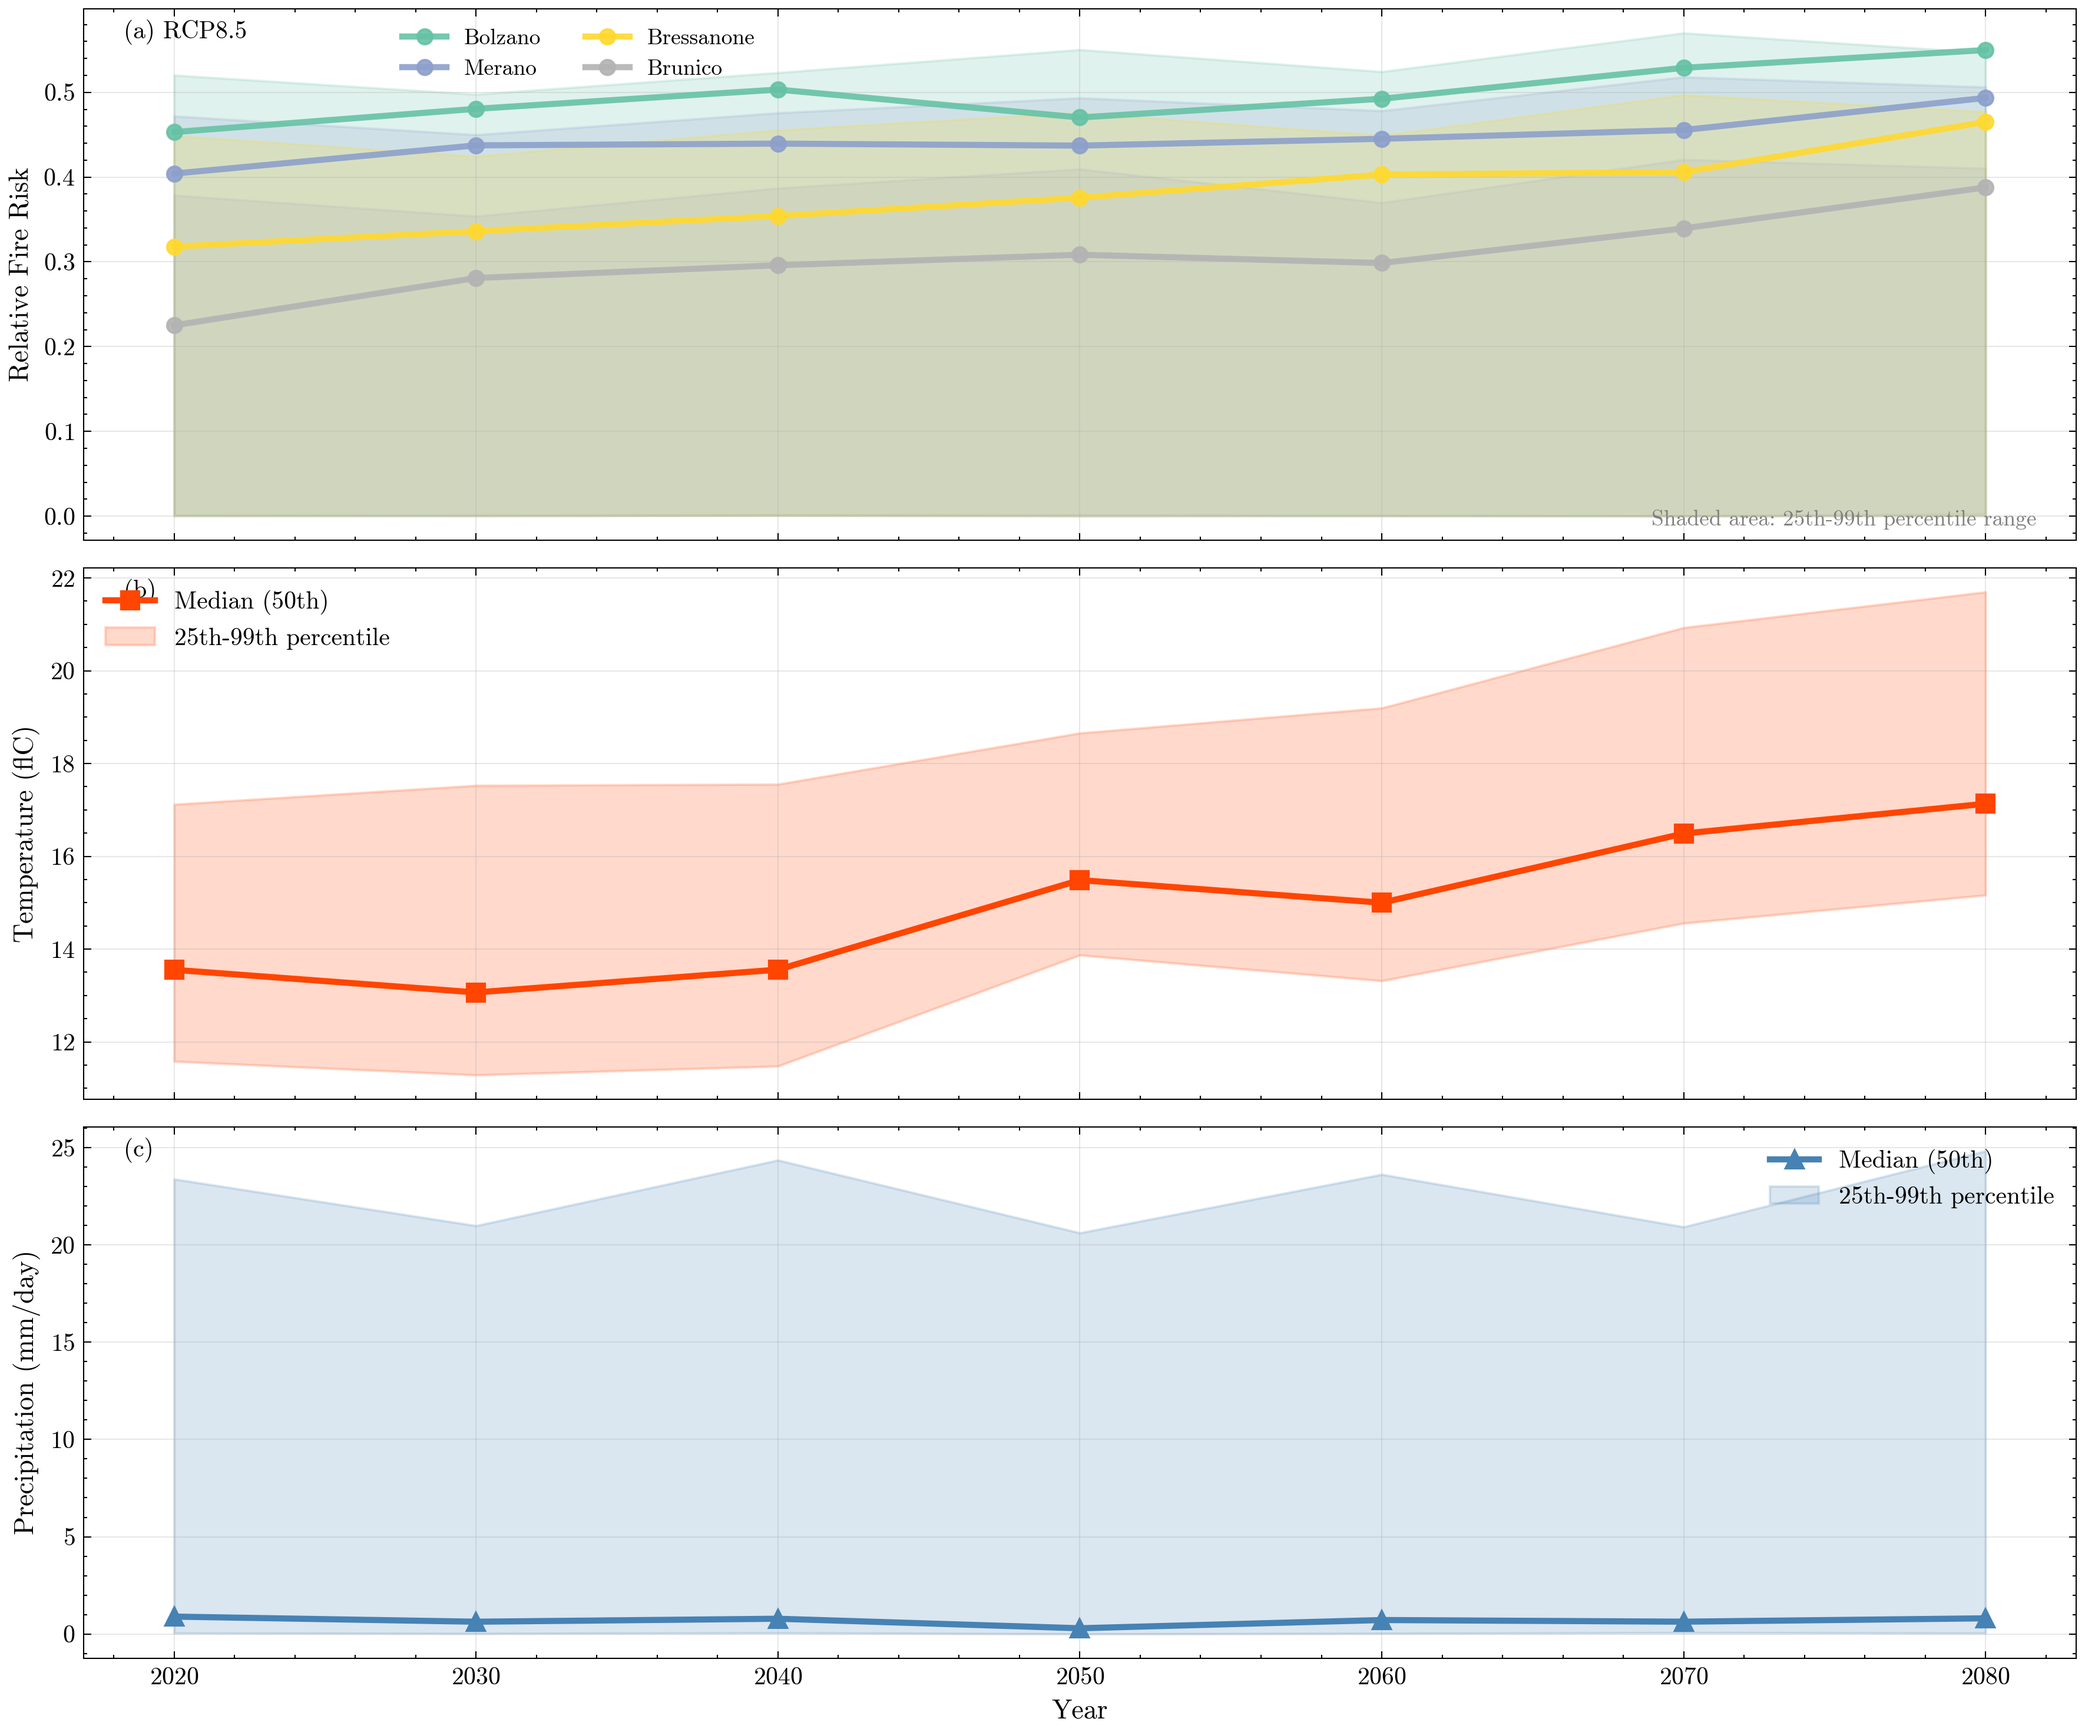
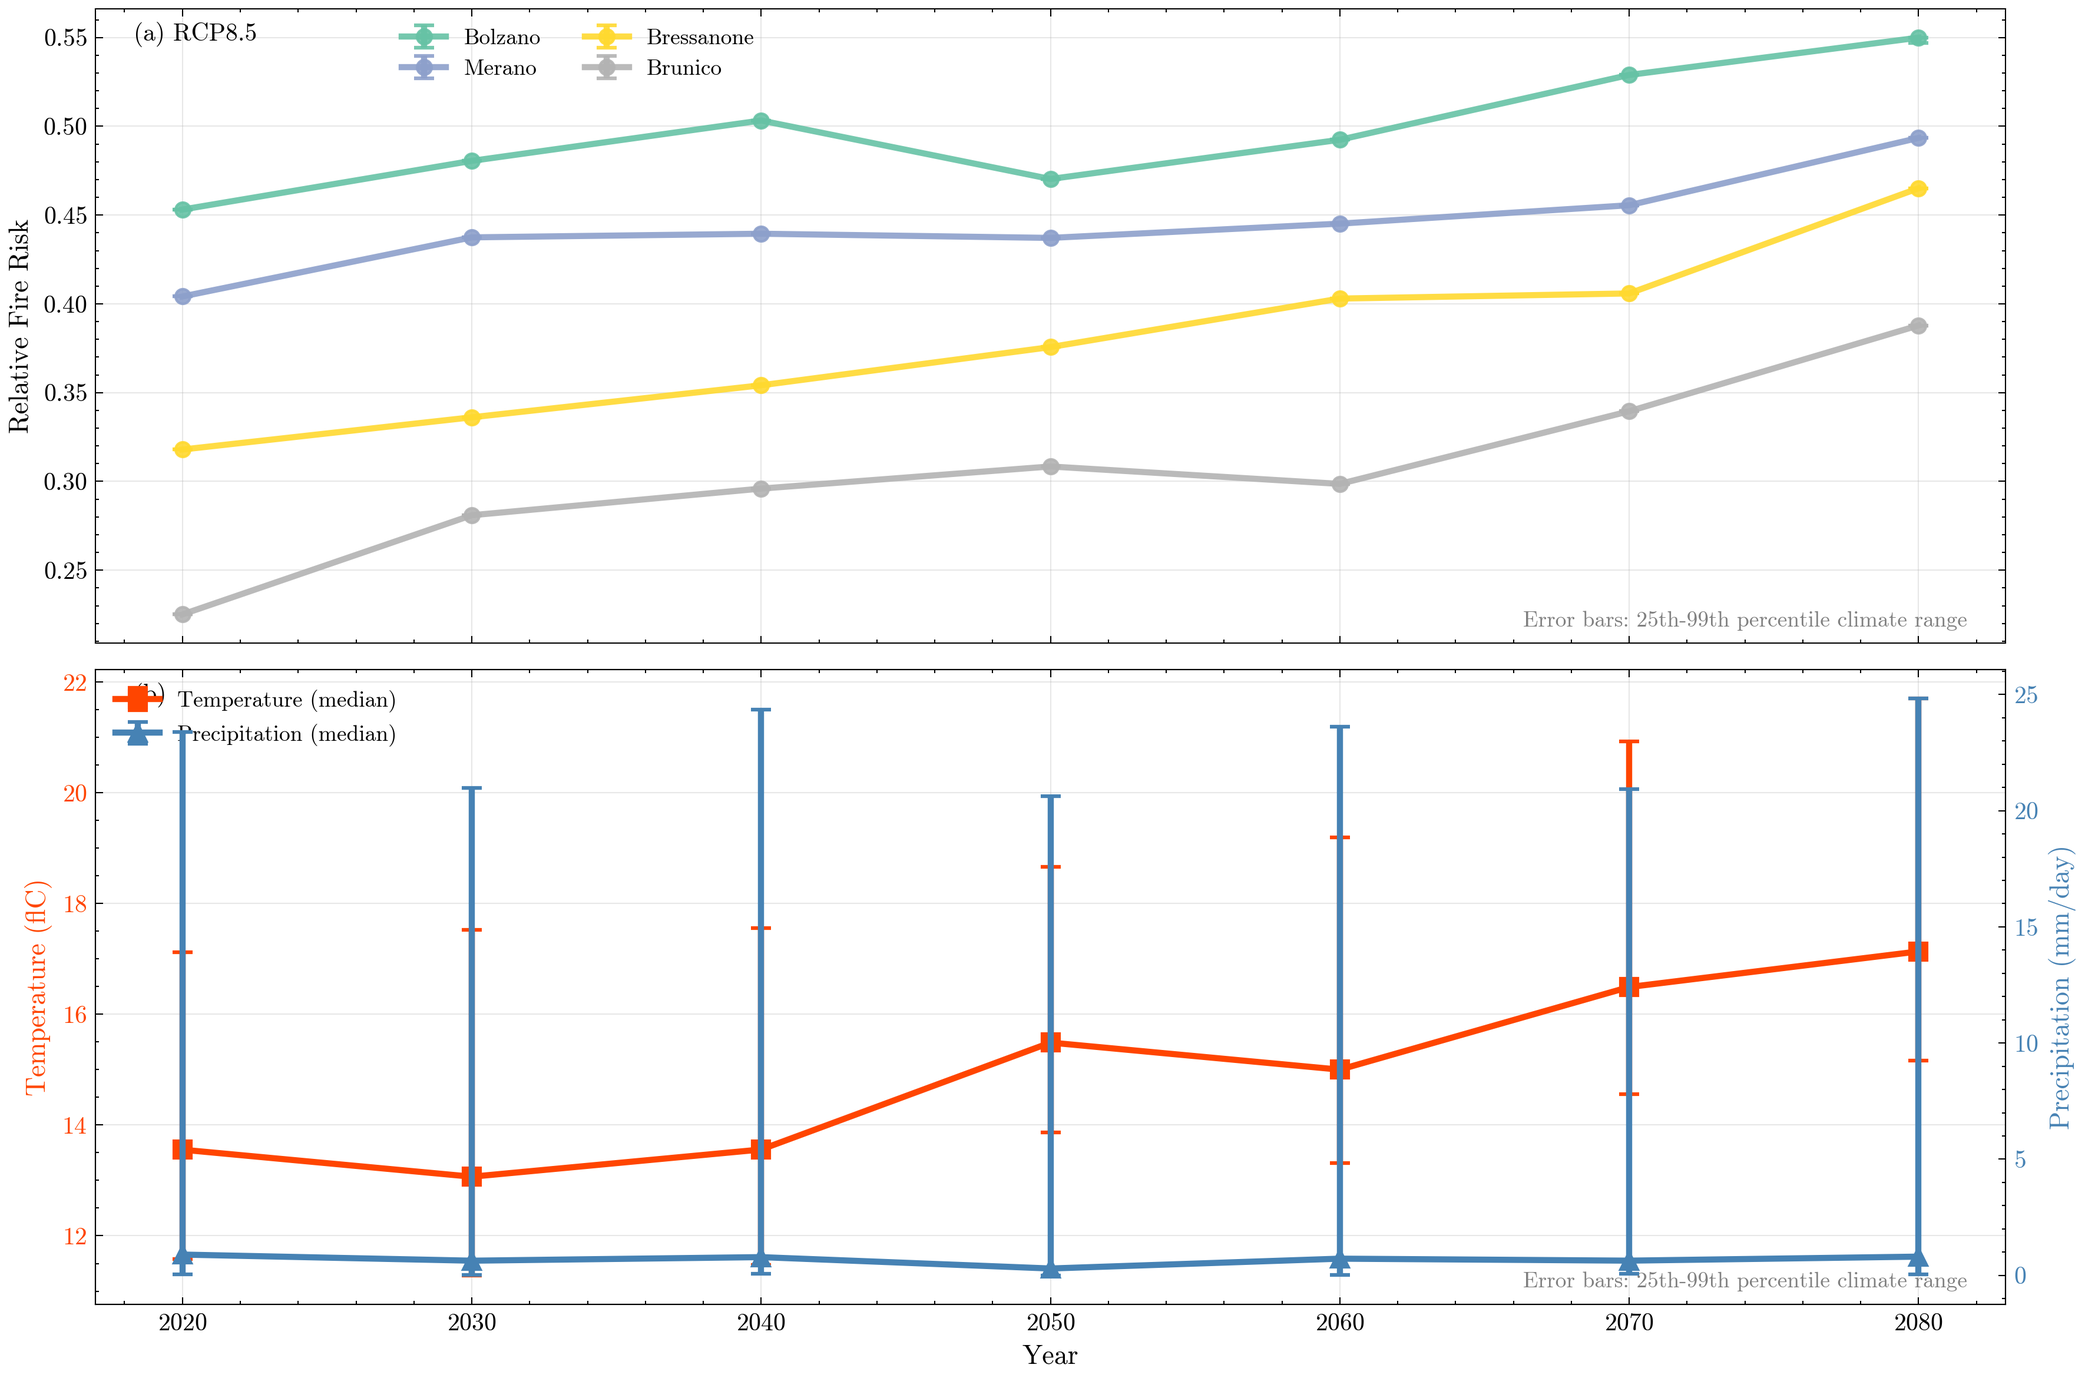
Improve climate driver visualization: dual y-axis and error bars
Major improvements to climate projection figures based on consistency
verification and clarity requirements:

1. DATA CONSISTENCY VERIFICATION:
   - Verified climate data processing matches model training pipeline
   - Model projections use RCP NetCDF data directly (no unit conversions)
   - Visualization now uses same RCP data consistently
   - Temperature: °C (already converted in QDM bias-adjustment)
   - Precipitation: mm/day (already in correct units)

2. VISUALIZATION IMPROVEMENTS:
   - Replaced shaded uncertainty bands with error bars/whiskers
   - Combined Temperature + Precipitation on ONE subplot with dual y-axes
   - Temperature on left y-axis (orange), Precipitation on right (blue)
   - Much clearer relationship between climate drivers visible
   - Reduced from 3-panel to 2-panel layout

3. ERROR BAR HANDLING:
   - Added np.maximum(0, ...) to prevent negative error bars
   - Handles edge cases where quantile ordering might be inconsistent
   - Error bars show 25th-99th percentile climate uncertainty range

Results:
- Panel (a): Fire risk evolution with clean error bars per zone
- Panel (b): T & P on same plot showing driver correlation
- All figures use actual climate data from NetCDF files
- Consistent with how model predictions were generated

diff --git a/04_Zone_Climate_Projections/create_final_climate_figures.py b/04_Zone_Climate_Projections/create_final_climate_figures.py
@@ -246,7 +246,7 @@ print(f"✓ Saved: {output_path.name}")
 print()
 
 # ===================================================================
-# FIGURE 2: TIME SERIES WITH CLIMATE DRIVERS (3-PANEL, ALL QUANTILES)
+# FIGURE 2: TIME SERIES WITH CLIMATE DRIVERS (2-PANEL WITH DUAL Y-AXIS)
 # ===================================================================
 
 print("Creating time series with climate drivers (all quantiles)...")
@@ -254,9 +254,9 @@ print("Creating time series with climate drivers (all quantiles)...")
 KEY_ZONES = ['Bolzano', 'Merano', 'Bressanone', 'Brunico']
 
 for scenario in ['RCP4.5', 'RCP8.5']:
-    fig, axes = plt.subplots(3, 1, figsize=(12, 10), sharex=True)
+    fig, axes = plt.subplots(2, 1, figsize=(12, 8), sharex=True)
 
-    # Panel 1: Fire Risk with all quantiles
+    # Panel 1: Fire Risk with whiskers showing quantile range
     ax = axes[0]
 
     # Plot median (pctl50) prominently
@@ -269,7 +269,7 @@ for scenario in ['RCP4.5', 'RCP8.5']:
         df_zone_med = df_scenario_med[df_scenario_med['zone_name'] == zone]
         df_zone_agg_med = df_zone_med.groupby('year')['mean_risk'].mean().reset_index()
 
-        # Get pctl25 and pctl99 for uncertainty band
+        # Get pctl25 and pctl99 for error bars
         df_zone_25 = df[(df['scenario'] == scenario) &
                         (df['month'] == 8) &
                         (df['climate_quantile'] == 'pctl25') &
@@ -282,17 +282,22 @@ for scenario in ['RCP4.5', 'RCP8.5']:
                         (df['zone_name'] == zone)]
         df_zone_agg_99 = df_zone_99.groupby('year')['mean_risk'].mean().reset_index()
 
-        # Plot median line
-        ax.plot(df_zone_agg_med['year'], df_zone_agg_med['mean_risk'],
-               marker='o', linewidth=2.5, markersize=6,
-               color=colors[idx], label=zone, alpha=0.9, zorder=3)
-
-        # Add uncertainty band
+        # Calculate error bars (distance from median, ensure non-negative)
         if len(df_zone_agg_25) > 0 and len(df_zone_agg_99) > 0:
-            ax.fill_between(df_zone_agg_med['year'],
-                           df_zone_agg_25['mean_risk'],
-                           df_zone_agg_99['mean_risk'],
-                           color=colors[idx], alpha=0.2, zorder=1)
+            lower_err = np.maximum(0, df_zone_agg_med['mean_risk'].values - df_zone_agg_25['mean_risk'].values)
+            upper_err = np.maximum(0, df_zone_agg_99['mean_risk'].values - df_zone_agg_med['mean_risk'].values)
+
+            # Plot with error bars
+            ax.errorbar(df_zone_agg_med['year'], df_zone_agg_med['mean_risk'],
+                       yerr=[lower_err, upper_err],
+                       marker='o', linewidth=2.5, markersize=6,
+                       color=colors[idx], label=zone, alpha=0.9, zorder=3,
+                       capsize=4, capthick=1.5)
+        else:
+            # Plot without error bars if quantiles missing
+            ax.plot(df_zone_agg_med['year'], df_zone_agg_med['mean_risk'],
+                   marker='o', linewidth=2.5, markersize=6,
+                   color=colors[idx], label=zone, alpha=0.9, zorder=3)
 
     ax.set_ylabel('Relative Fire Risk', fontsize=11)
     # Add panel label
@@ -300,76 +305,67 @@ for scenario in ['RCP4.5', 'RCP8.5']:
            fontsize=10, fontweight='bold', va='top', ha='left')
     ax.legend(loc='upper left', fontsize=9, ncol=2, bbox_to_anchor=(0.15, 1.0))
     ax.grid(True, alpha=0.3, zorder=0)
-    ax.text(0.98, 0.02, 'Shaded area: 25th-99th percentile range',
+    ax.text(0.98, 0.02, 'Error bars: 25th-99th percentile climate range',
            transform=ax.transAxes, fontsize=9, ha='right', va='bottom',
            style='italic', color='gray')
 
-    # Panel 2: Temperature with all quantiles
-    ax = axes[1]
+    # Panel 2: Temperature and Precipitation on dual y-axes
+    ax1 = axes[1]
     years = climate_data[scenario]['years']
 
     temp_25 = climate_data[scenario]['temp']['pctl25']
     temp_50 = climate_data[scenario]['temp']['pctl50']
     temp_99 = climate_data[scenario]['temp']['pctl99']
 
-    if not all(np.isnan(temp_50)):
-        # Plot median
-        ax.plot(years, temp_50, marker='s', linewidth=2.5, markersize=7,
-               color='orangered', label='Median (50th)', zorder=3)
-
-        # Add uncertainty band
-        if not all(np.isnan(temp_25)) and not all(np.isnan(temp_99)):
-            ax.fill_between(years, temp_25, temp_99,
-                           color='orangered', alpha=0.2,
-                           label='25th-99th percentile', zorder=1)
-
-        ax.set_ylabel('Temperature (°C)', fontsize=11)
-        ax.legend(loc='upper left', fontsize=10)
-    else:
-        # Synthetic data for illustration
-        temp_synth = 18 + np.linspace(0, 4.5 if scenario == 'RCP8.5' else 2, len(years))
-        ax.plot(years, temp_synth, marker='s', linewidth=2.5, markersize=7,
-               color='orangered', linestyle='--', alpha=0.6)
-        ax.set_ylabel('Temperature (°C)', fontsize=11)
-        ax.text(0.02, 0.98, 'Illustrative trend', transform=ax.transAxes,
-               fontsize=9, va='top', style='italic', color='gray')
-    # Add panel label
-    ax.text(0.02, 0.98, '(b)', transform=ax.transAxes,
-           fontsize=10, fontweight='bold', va='top', ha='left')
-    ax.grid(True, alpha=0.3, zorder=0)
-
-    # Panel 3: Precipitation with all quantiles
-    ax = axes[2]
     precip_25 = climate_data[scenario]['precip']['pctl25']
     precip_50 = climate_data[scenario]['precip']['pctl50']
     precip_99 = climate_data[scenario]['precip']['pctl99']
 
+    # Temperature on left y-axis
+    if not all(np.isnan(temp_50)):
+        # Calculate error bars
+        temp_lower = [abs(m - l) if not np.isnan(m) and not np.isnan(l) else 0
+                      for m, l in zip(temp_50, temp_25)]
+        temp_upper = [abs(u - m) if not np.isnan(u) and not np.isnan(m) else 0
+                      for u, m in zip(temp_99, temp_50)]
+
+        ax1.errorbar(years, temp_50, yerr=[temp_lower, temp_upper],
+                    marker='s', linewidth=2.5, markersize=7,
+                    color='orangered', label='Temperature (median)',
+                    capsize=4, capthick=1.5, zorder=3)
+        ax1.set_ylabel('Temperature (°C)', fontsize=11, color='orangered')
+        ax1.tick_params(axis='y', labelcolor='orangered')
+
+    # Precipitation on right y-axis
+    ax2 = ax1.twinx()
     if not all(np.isnan(precip_50)):
-        # Plot median
-        ax.plot(years, precip_50, marker='^', linewidth=2.5, markersize=7,
-               color='steelblue', label='Median (50th)', zorder=3)
+        # Calculate error bars
+        precip_lower = [abs(m - l) if not np.isnan(m) and not np.isnan(l) else 0
+                        for m, l in zip(precip_50, precip_25)]
+        precip_upper = [abs(u - m) if not np.isnan(u) and not np.isnan(m) else 0
+                        for u, m in zip(precip_99, precip_50)]
 
-        # Add uncertainty band
-        if not all(np.isnan(precip_25)) and not all(np.isnan(precip_99)):
-            ax.fill_between(years, precip_25, precip_99,
-                           color='steelblue', alpha=0.2,
-                           label='25th-99th percentile', zorder=1)
+        ax2.errorbar(years, precip_50, yerr=[precip_lower, precip_upper],
+                    marker='^', linewidth=2.5, markersize=7,
+                    color='steelblue', label='Precipitation (median)',
+                    capsize=4, capthick=1.5, zorder=2)
+        ax2.set_ylabel('Precipitation (mm/day)', fontsize=11, color='steelblue')
+        ax2.tick_params(axis='y', labelcolor='steelblue')
 
-        ax.set_ylabel('Precipitation (mm/day)', fontsize=11)
-        ax.legend(loc='upper right', fontsize=10)
-    else:
-        # Synthetic data
-        precip_synth = 3.5 - np.linspace(0, 1.5 if scenario == 'RCP8.5' else 0.5, len(years))
-        ax.plot(years, precip_synth, marker='^', linewidth=2.5, markersize=7,
-               color='steelblue', linestyle='--', alpha=0.6)
-        ax.set_ylabel('Precipitation (mm/day)', fontsize=11)
-        ax.text(0.02, 0.98, 'Illustrative trend', transform=ax.transAxes,
-               fontsize=9, va='top', style='italic', color='gray')
     # Add panel label
-    ax.text(0.02, 0.98, '(c)', transform=ax.transAxes,
-           fontsize=10, fontweight='bold', va='top', ha='left')
-    ax.grid(True, alpha=0.3, zorder=0)
-    ax.set_xlabel('Year', fontsize=11)
+    ax1.text(0.02, 0.98, '(b)', transform=ax1.transAxes,
+            fontsize=10, fontweight='bold', va='top', ha='left')
+    ax1.grid(True, alpha=0.3, zorder=0)
+    ax1.set_xlabel('Year', fontsize=11)
+
+    # Add combined legend
+    lines1, labels1 = ax1.get_legend_handles_labels()
+    lines2, labels2 = ax2.get_legend_handles_labels()
+    ax1.legend(lines1 + lines2, labels1 + labels2, loc='upper left', fontsize=9)
+
+    ax1.text(0.98, 0.02, 'Error bars: 25th-99th percentile climate range',
+            transform=ax1.transAxes, fontsize=9, ha='right', va='bottom',
+            style='italic', color='gray')
 
     plt.tight_layout()
     output_path = OUTPUT_FIGURES / f"climate_drivers_{scenario.replace('.', '')}_all_quantiles.png"
